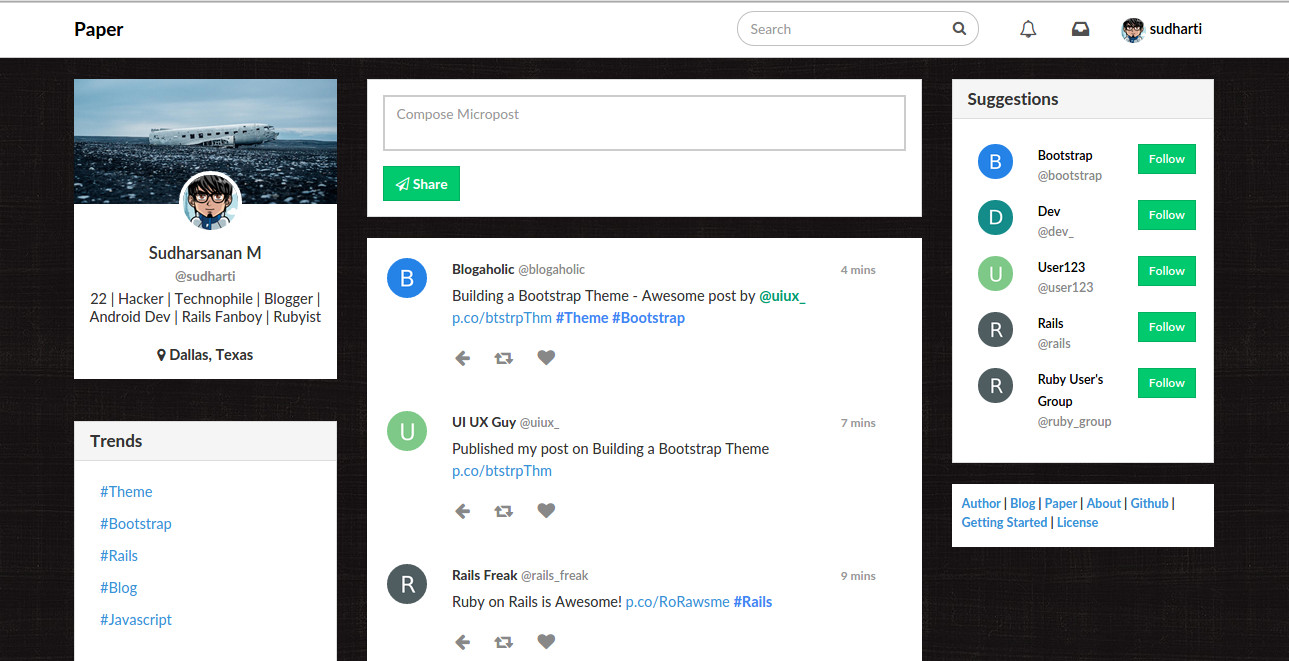
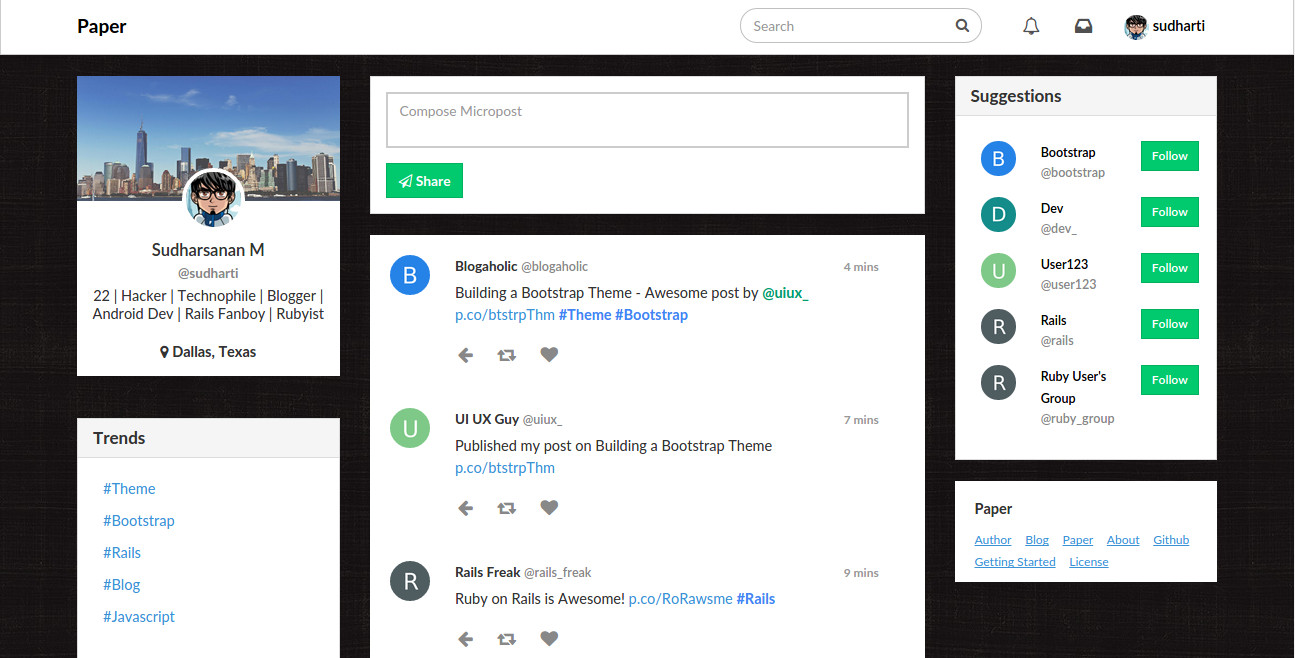
Changes to timeline footer, update img

diff --git a/templates/index.html b/templates/index.html
@@ -50,7 +50,14 @@
                 <img src="../assets/img/landing.jpg" alt="..." class="img-preview">
                 <div class="caption">
                   <h4 class="text-center"><b>Landing Page</b></h4><br>
-                  <p class="text-center"><a href="landing.html" target="_blank" class="btn btn-success" role="button">Live Preview</a></p>
+                  <p class="text-center">
+                    <a href="landing.html" target="_blank" class="btn btn-success" role="button">
+                      Live Preview
+                    </a>
+                    <a href="#" class="btn btn-primary">
+                      <i class="fa fa-code"></i> Code
+                    </a>
+                  </p>
                 </div>
               </div>
             </div>
@@ -59,7 +66,14 @@
                 <img src="../assets/img/login.jpg" alt="..." class="img-preview">
                 <div class="caption">
                   <h4 class="text-center"><b>Login Page</b></h4><br>
-                  <p class="text-center"><a href="login.html" target="_blank" class="btn btn-success" role="button">Live Preview</a></p>
+                    <p class="text-center">
+                      <a href="login.html" target="_blank" class="btn btn-success" role="button">
+                        Live Preview
+                      </a>
+                      <a href="#" class="btn btn-primary">
+                        <i class="fa fa-code"></i> Code
+                      </a>
+                    </p>
                 </div>
               </div>
             </div>
@@ -70,7 +84,14 @@
                 <img src="../assets/img/timeline.jpg" alt="..." class="img-preview">
                 <div class="caption">
                   <h4 class="text-center"><b>Timeline</b></h4><br>
-                  <p class="text-center"><a href="timeline.html" target="_blank" class="btn btn-success" role="button">Live Preview</a></p>
+                  <p class="text-center">
+                    <a href="timeline.html" target="_blank" class="btn btn-success" role="button">
+                      Live Preview
+                    </a>
+                    <a href="#" class="btn btn-primary">
+                      <i class="fa fa-code"></i> Code
+                    </a>
+                  </p>
                 </div>
               </div>
             </div>
@@ -79,7 +100,14 @@
                 <img src="../assets/img/blog.jpg" alt="..." class="img-preview">
                 <div class="caption">
                   <h4 class="text-center"><b>Blog</b></h4><br>
-                  <p class="text-center"><a href="blog.html" target="_blank" class="btn btn-success" role="button">Live Preview</a></p>
+                  <p class="text-center">
+                    <a href="blog.html" target="_blank" class="btn btn-success" role="button">
+                      Live Preview
+                    </a>
+                    <a href="#" class="btn btn-primary">
+                      <i class="fa fa-code"></i> Code
+                    </a>
+                  </p>
                 </div>
               </div>
             </div>

diff --git a/templates/timeline.html b/templates/timeline.html
@@ -546,7 +546,14 @@
           </div>
           <div class="well">
             <div class="footer">
-              <label><a href="#"><a href="#">Author</a> | <a href="#">Blog</a> | <a href="#">Paper</a> | <a href="#">About</a> | <a href="#">Github</a> | <a href="#">Getting Started</a> | <a href="#">License</a></label>
+              <h5><b>Paper</b></h5>
+              <a href="#">Author</a> 
+              <a href="#">Blog</a> 
+              <a href="#">Paper</a> 
+              <a href="#">About</a> 
+              <a href="#">Github</a> 
+              <a href="#">Getting Started</a> 
+              <a href="#">License</a>
             </div>
           </div>
         </div>

diff --git a/templates/css/timeline.css b/templates/css/timeline.css
@@ -137,8 +137,16 @@
 .footer {
   padding: 10px;
   word-wrap: break-word;
-  font-size: 1.25rem;
-  font-weight: lighter;
+}
+
+.footer h5 {
+  margin-left: 10px;
+}
+
+.footer a {
+  font-size: 1.2rem;
+  margin-left: 10px;
+  text-decoration: underline;
 }
 
 .panel-list {
